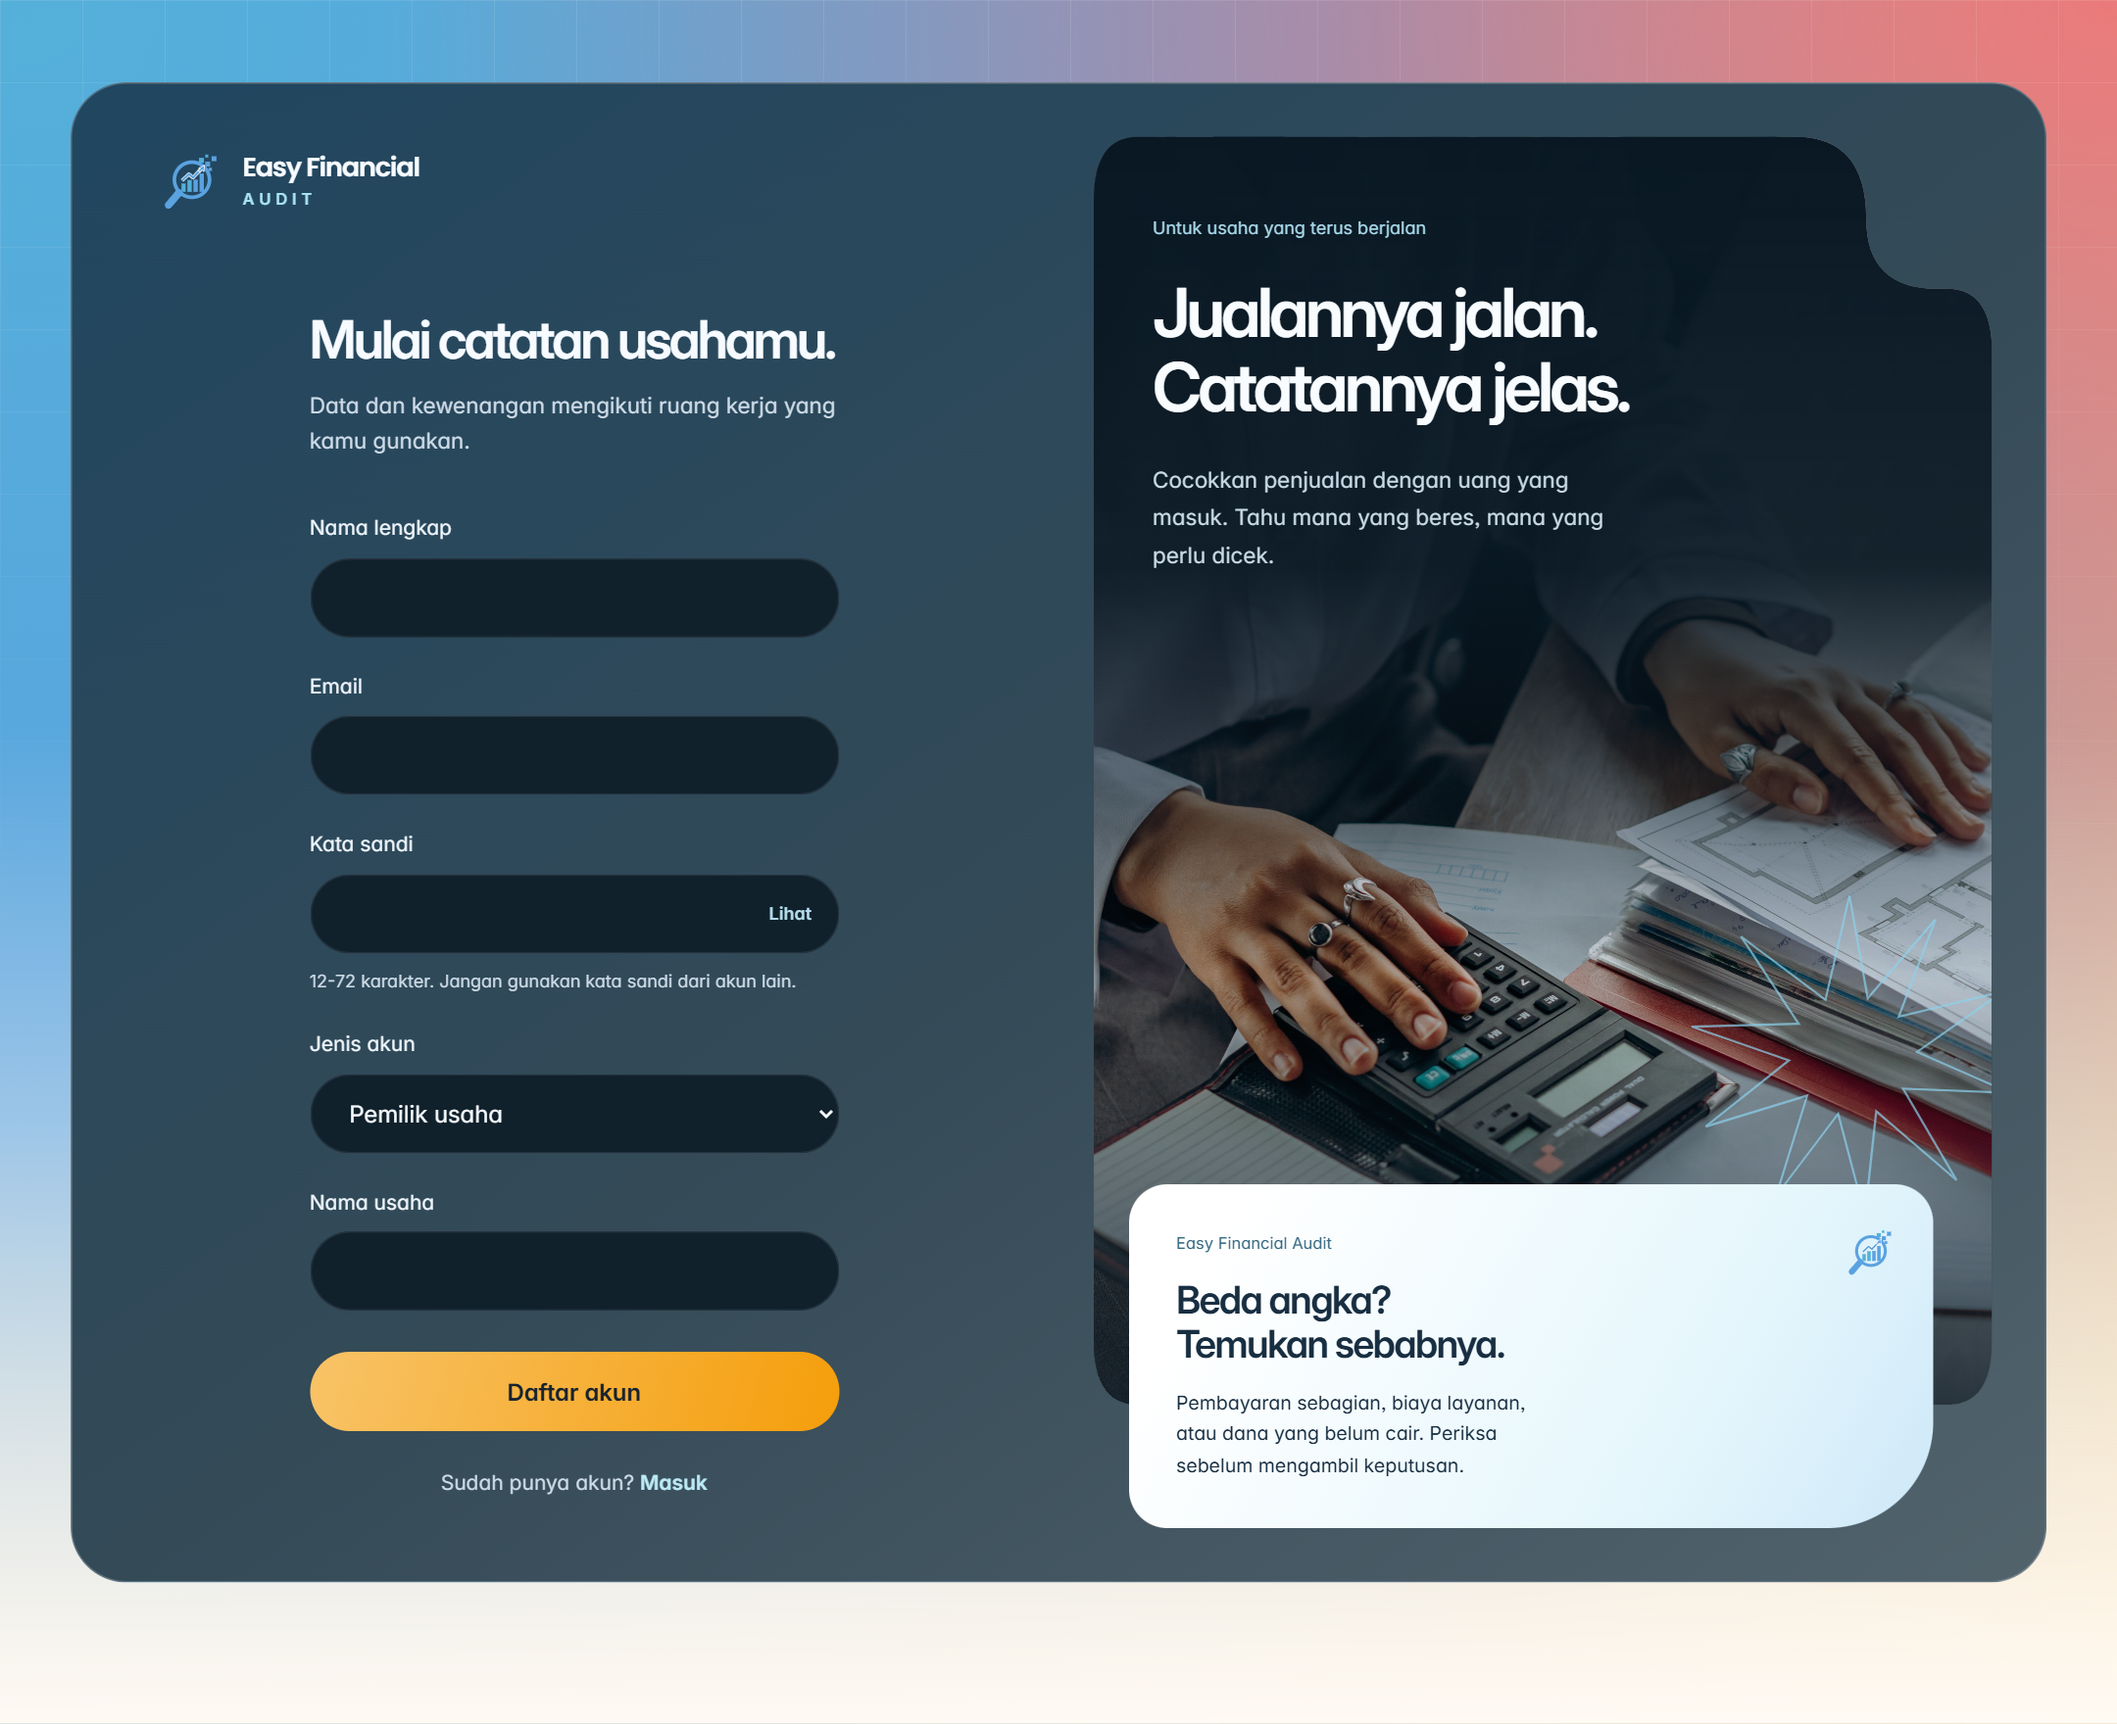
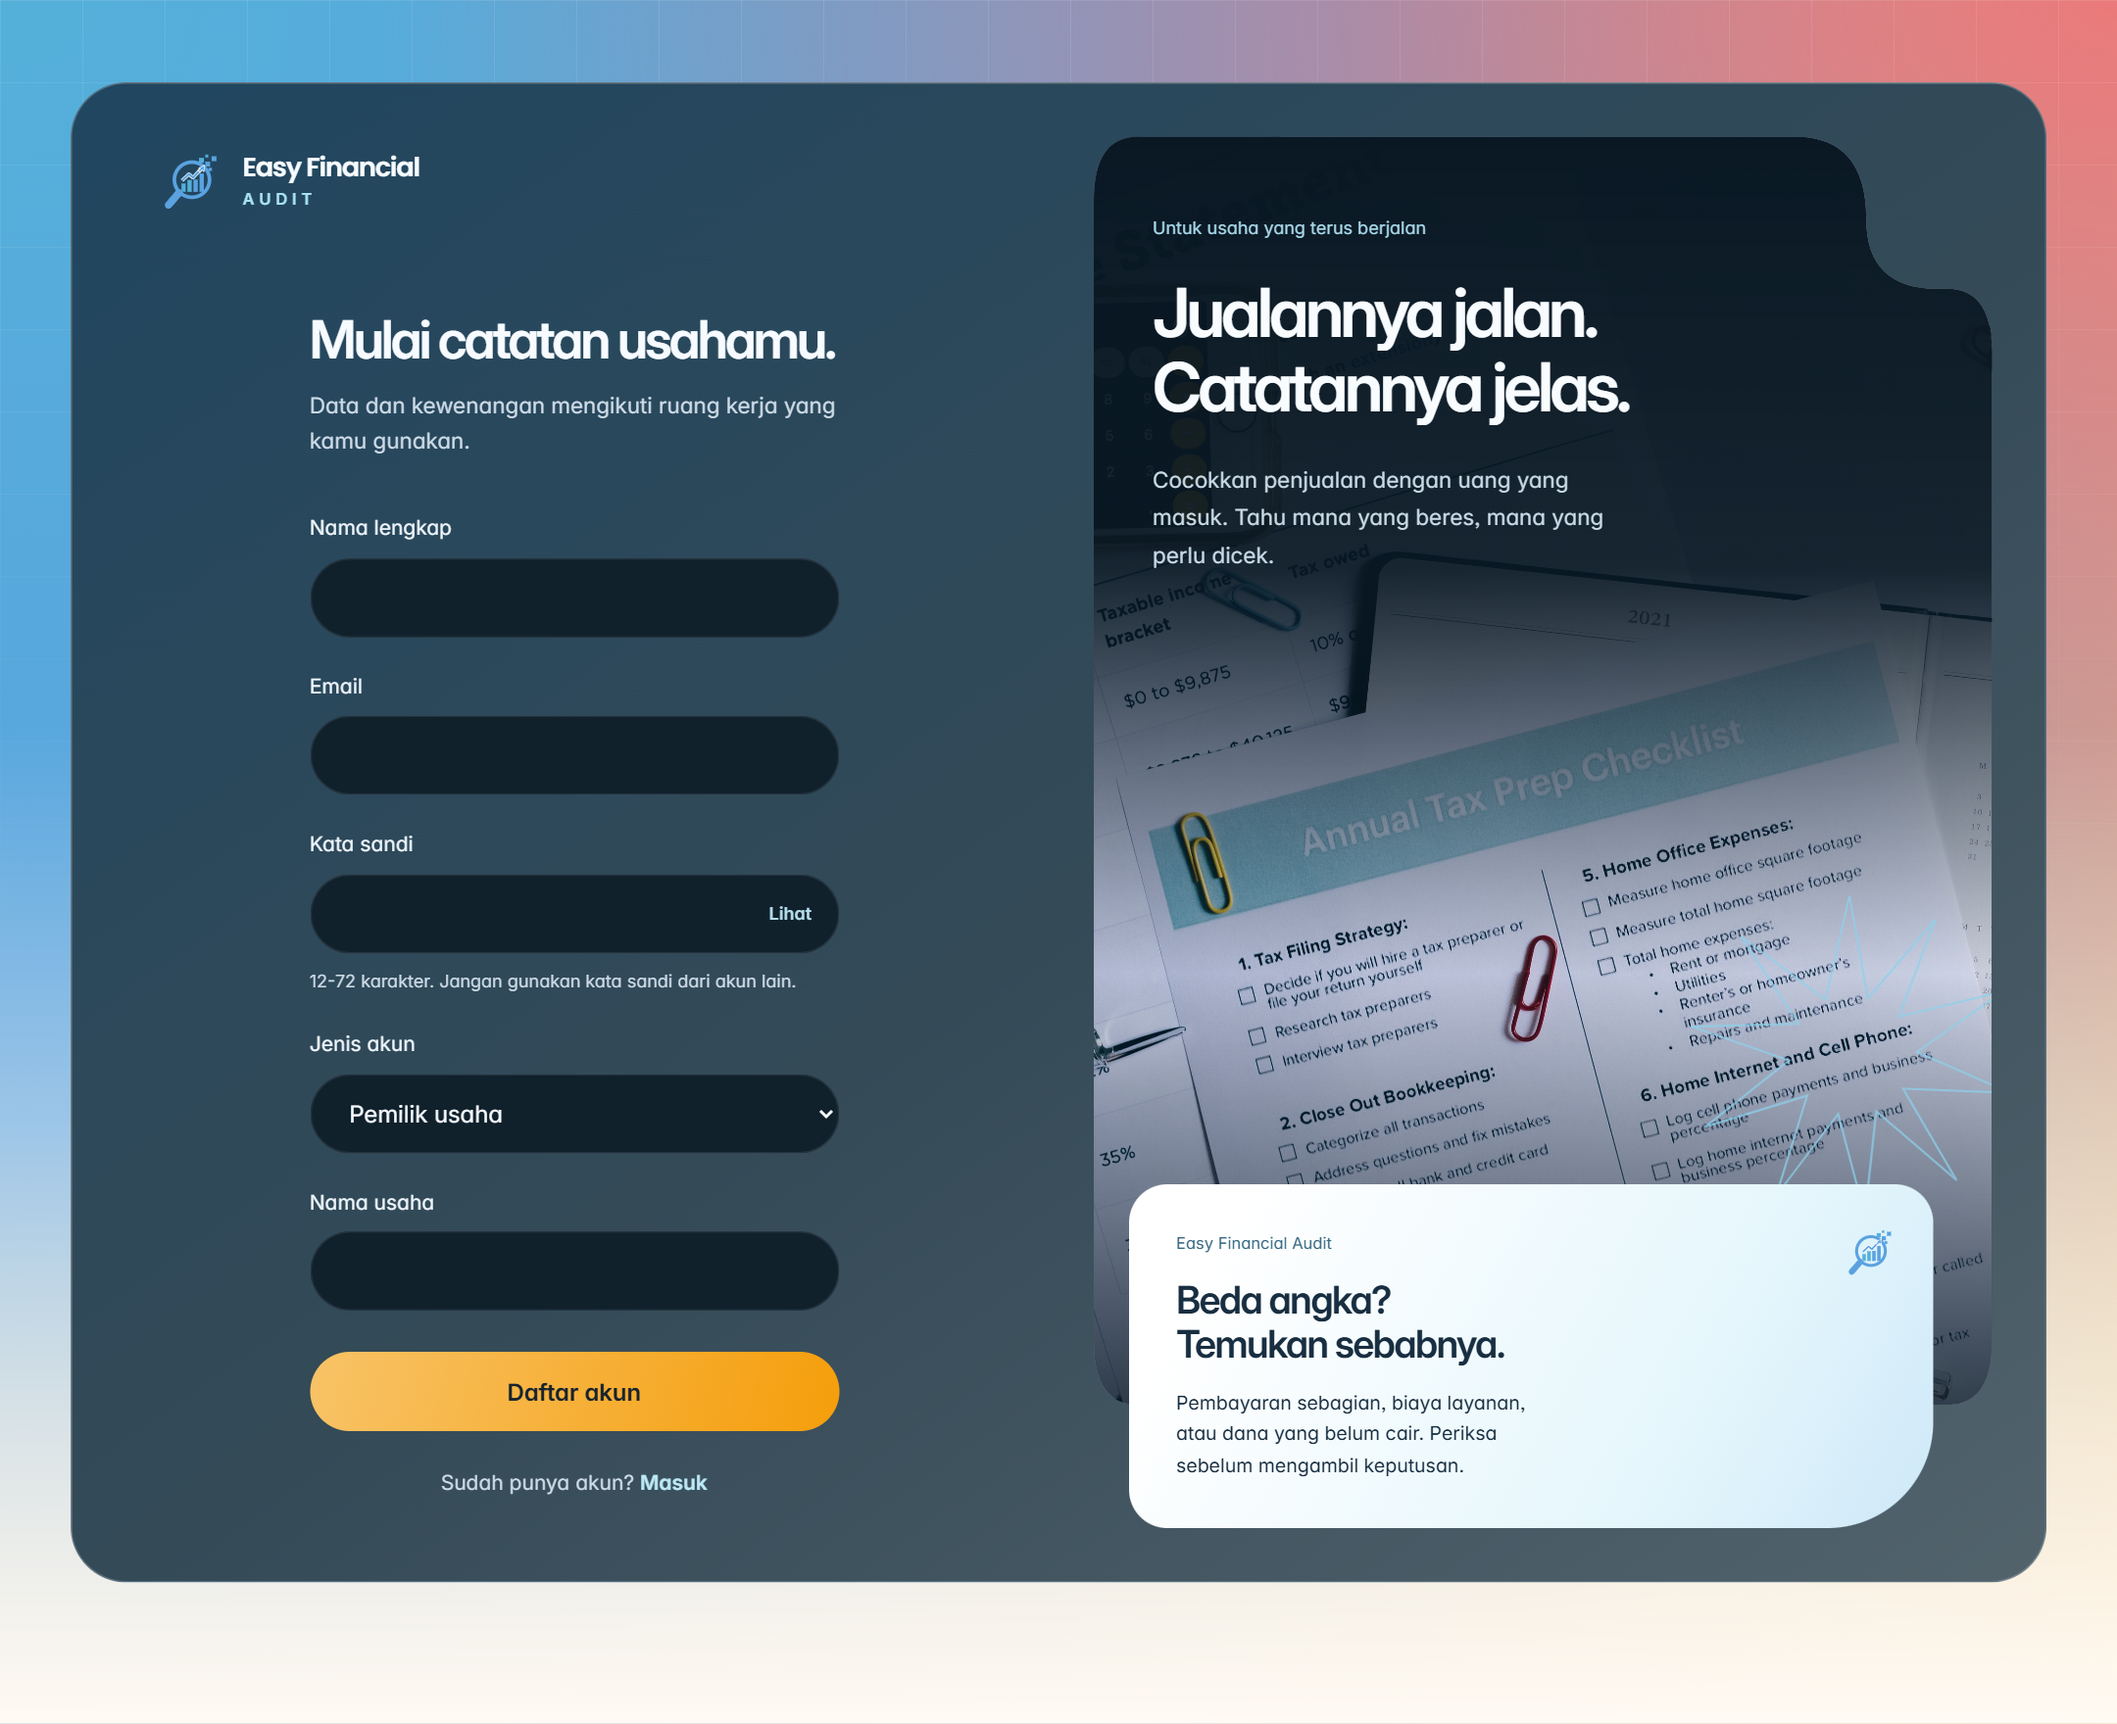
Replace soft-focus photos with 4K flat lays and remove image captions

Changed region(s): [[0.4963, 0.3438, 0.9616, 0.8125], [0.8995, 0.75, 0.9616, 0.7812]]

diff --git a/frontend/assets/design.js b/frontend/assets/design.js
@@ -59,7 +59,7 @@ function cashDashboard(c) {
       "Lihat uang yang sudah diterima dan tagihan yang masih perlu dicocokkan.",
       button("Impor CSV", "import", "", "primary"),
     ) +
-    `<section class="cash-account"><div class="cash-balance"><span class="account-caption">Tagihan belum cocok</span><strong class="account-amount">${e(money(sumMoney(open, (x) => balance(x))))}</strong><p>${open.length} dari ${sales.length} penjualan masih memiliki sisa.</p><a href="#reconcile" class="button balance-link">Periksa pasangan <span aria-hidden="true">↗</span></a><div class="cash-account-foot"><span>${done} penjualan sudah cocok</span><span>Rupiah / IDR</span></div></div><figure class="cash-business-photo"><img src="/assets/umkm-real.jpg" width="1200" height="800" alt="Foto asli etalase usaha roti"><figcaption><strong>Untuk usaha yang terus berjalan.</strong><span>Foto referensi · Farhad Ibrahimzade / Unsplash</span></figcaption></figure></section>
+    `<section class="cash-account"><div class="cash-balance"><span class="account-caption">Tagihan belum cocok</span><strong class="account-amount">${e(money(sumMoney(open, (x) => balance(x))))}</strong><p>${open.length} dari ${sales.length} penjualan masih memiliki sisa.</p><a href="#reconcile" class="button balance-link">Periksa pasangan <span aria-hidden="true">↗</span></a><div class="cash-account-foot"><span>${done} penjualan sudah cocok</span><span>Rupiah / IDR</span></div></div><figure class="cash-business-photo"><img src="/assets/efa-ledger-4k.jpg" width="4000" height="2670" alt="Kalkulator dan dokumen keuangan di atas meja"><figcaption><strong>Untuk usaha yang terus berjalan.</strong></figcaption></figure></section>
     <div class="cash-totals"><div><span>Penjualan tercatat</span><strong>${e(money(sumMoney(sales, (x) => x.amount)))}</strong><small>${sales.length} transaksi</small></div><div><span>Penerimaan tercatat</span><strong>${e(money(sumMoney(receipts, (x) => x.amount)))}</strong><small>${receipts.length} transaksi</small></div><div><span>Sudah cocok</span><strong>${done}<small> / ${sales.length}</small></strong><small>Penjualan tanpa sisa tagihan</small></div></div>
     <section class="cash-workspace"><div><div class="section-title"><h2>Perlu dicocokkan</h2><a href="#entries">Semua transaksi ↗</a></div><div class="cash-transactions">${rows}</div></div><aside class="cash-receipt"><div class="receipt-header"><span>${e(state.data.workspace.name)}</span><strong>Penerimaan per kanal</strong></div>${
       channels

diff --git a/frontend/index.html b/frontend/index.html
@@ -9,9 +9,9 @@
       content="Easy Financial Audit: cocokkan penjualan dan uang masuk, telusuri selisih, dan simpan keputusan rekonsiliasi."
     />
     <title>Easy Financial Audit</title>
-    <link rel="icon" type="image/svg+xml" href="/assets/favicon.svg?v=efa4" />
-    <link rel="alternate icon" type="image/png" sizes="32x32" href="/assets/favicon-32.png?v=efa4" />
-    <link rel="apple-touch-icon" sizes="180x180" href="/assets/apple-touch-icon.png?v=efa4" />
+    <link rel="icon" type="image/svg+xml" href="/assets/favicon.svg?v=efa5" />
+    <link rel="alternate icon" type="image/png" sizes="32x32" href="/assets/favicon-32.png?v=efa5" />
+    <link rel="apple-touch-icon" sizes="180x180" href="/assets/apple-touch-icon.png?v=efa5" />
     <link
       rel="preload"
       href="/assets/InterVariable.woff2"
@@ -19,12 +19,12 @@
       type="font/woff2"
       crossorigin
     />
-    <link rel="stylesheet" href="/assets/style.css?v=efa4" />
-    <link rel="stylesheet" href="/assets/brand.css?v=efa4" />
-    <link rel="stylesheet" href="/assets/motion.css?v=efa4" />
-    <link rel="stylesheet" href="/assets/efa.css?v=efa4" />
-    <link rel="stylesheet" href="/assets/auth.css?v=efa4" />
-    <script type="module" src="/assets/app.js?v=efa4"></script>
+    <link rel="stylesheet" href="/assets/style.css?v=efa5" />
+    <link rel="stylesheet" href="/assets/brand.css?v=efa5" />
+    <link rel="stylesheet" href="/assets/motion.css?v=efa5" />
+    <link rel="stylesheet" href="/assets/efa.css?v=efa5" />
+    <link rel="stylesheet" href="/assets/auth.css?v=efa5" />
+    <script type="module" src="/assets/app.js?v=efa5"></script>
   </head>
   <body>
     <a class="skip" href="#main">Lewati navigasi</a>

diff --git a/frontend/assets/auth-scene.js b/frontend/assets/auth-scene.js
@@ -3,7 +3,7 @@ export function authScene(register = false) {
   return `<section class="auth-story" aria-label="Tentang Easy Financial Audit">
     <svg class="auth-shapes" width="0" height="0" aria-hidden="true"><defs><clipPath id="auth-panel-cut" clipPathUnits="objectBoundingBox"><path d="M.05 0H.78Q.86 0 .86 .065Q.86 .12 .94 .12H.95Q1 .12 1 .17V.95Q1 1 .95 1H.05Q0 1 0 .95V.05Q0 0 .05 0Z"/></clipPath></defs></svg>
     <div class="auth-editorial">
-      <img class="auth-photo" src="/assets/${register ? "efa-finance-notes.jpg" : "efa-finance-desk.jpg"}" srcset="/assets/${register ? "efa-finance-notes.jpg" : "efa-finance-desk.jpg"} 2400w, /assets/${register ? "efa-finance-notes-hd.jpg" : "efa-finance-desk-hd.jpg"} 4000w" sizes="(min-width: 1530px) 640px, (min-width: 801px) 46vw, 90vw" width="4000" height="6000" alt="" fetchpriority="high">
+      <img class="auth-photo" src="/assets/${register ? "efa-planning-4k.jpg" : "efa-ledger-4k.jpg"}" width="4000" height="2670" alt="" fetchpriority="high">
       <div class="auth-editorial-copy">
         <span class="auth-kicker">Untuk usaha yang terus berjalan</span>
         <h1>Jualannya jalan.<br>Catatannya jelas.</h1>

diff --git a/frontend/assets/app.js b/frontend/assets/app.js
@@ -1,7 +1,7 @@
-import { authScene } from "./auth-scene.js?v=efa4";
-import { dashboard, maxyBrand, shell } from "./design.js?v=efa4";
+import { authScene } from "./auth-scene.js?v=efa5";
+import { dashboard, maxyBrand, shell } from "./design.js?v=efa5";
 
-import { presentView, presentAuth } from "./motion.js?v=efa4";
+import { presentView, presentAuth } from "./motion.js?v=efa5";
 
 const root = document.querySelector("#app");
 

diff --git a/frontend/assets/auth.css b/frontend/assets/auth.css
@@ -130,7 +130,7 @@ body[data-kind="umkm"] .auth-umkm .auth-story .auth-photo {
   min-height: 0;
   max-height: none;
   object-fit: cover;
-  object-position: 50% 70%;
+  object-position: 36% center;
   border-radius: 0;
   outline: 0;
 }

diff --git a/frontend/ASSETS.md b/frontend/ASSETS.md
@@ -5,7 +5,6 @@ palet sekarang mengikuti Easy Financial Audit; lihat ../docs/BRAND.md.
 
 | File | Penggunaan |
 | --- | --- |
-| umkm-real.jpg | Foto usaha Farhad Ibrahimzade / Unsplash; atribusi tampil pada UI |
 | efa-mark.svg, efa-logo.svg, efa-logo-hd.png | Identitas Easy Financial Audit dari referensi pemilik proyek |
 | favicon.svg, favicon-32.png, favicon.ico, favicon.png | Ikon browser EFA |
 | apple-touch-icon.png, icon-192.png, icon-512.png | Ikon resolusi tinggi perangkat |
@@ -18,14 +17,17 @@ palet sekarang mengikuti Easy Financial Audit; lihat ../docs/BRAND.md.
 | motion.js, motion.css | Animasi progresif dan reduced motion |
 | efa.css | Palet EFA terbaru dan penyesuaian kontras |
 | auth.css, auth-scene.js | Form kiri, panel foto bertakik kanan dan kartu bertumpuk, khusus login/daftar |
-| efa-finance-desk.jpg | Foto Mikhail Nilov / Pexels, ID 8296991; versi lokal 2400 x 3600 untuk login |
-| efa-finance-notes.jpg | Foto Mikhail Nilov / Pexels, ID 8297220; versi lokal 2400 x 3600 untuk daftar |
-| efa-finance-desk-hd.jpg, efa-finance-notes-hd.jpg | Sumber 4000 x 6000; browser memilih melalui srcset sesuai kebutuhan layar |
+| efa-ledger-4k.jpg | Foto dari atas: kalkulator, kalender dan dokumen; 4000 x 2670, untuk login/dashboard |
+| efa-planning-4k.jpg | Foto dari atas: pencatatan keuangan dan kalkulator; 4000 x 2670, untuk daftar |
 
 Branding menunjukkan konteks PBL, bukan klaim layanan keuangan resmi MAXY. Aset prototipe Grader/Facility tidak disertakan.
 
-Foto baru berasal dari [halaman laptop dan kalkulator](https://www.pexels.com/photo/person-using-a-calculator-and-a-laptop-8296991/)
-dan [halaman pencatatan keuangan](https://www.pexels.com/photo/a-person-working-on-the-documents-using-a-calculator-8297220/),
+Foto baru oleh Leeloo The First, berasal dari [dokumen dan kalkulator](https://www.pexels.com/photo/close-up-shot-of-documents-6928994/)
+dan [dokumen serta ponsel](https://www.pexels.com/photo/a-documents-and-mobile-phone-on-the-table-8962448/),
 diunduh sesuai [lisensi Pexels](https://www.pexels.com/license/). Kredit dan tautan
 sumber disimpan di berkas ini. Foto adalah referensi visual, bukan pengguna EFA
 atau bukti penerapan pada perusahaan tertentu.
+
+Foto lama Mikhail Nilov (8296991/8297220), serta foto roti Farhad
+Ibrahimzade/Unsplash, telah digantikan dan disimpan dalam backup lokal.
+PDF panduan lama masih memuat snapshot foto tersebut sesuai waktu pembuatannya.

diff --git a/docs/BRAND.md b/docs/BRAND.md
@@ -49,7 +49,7 @@ frontend/assets/efa.css menjadi lapisan tema EFA setelah style.css,
 brand.css, dan motion.css. Komposisi layout dan interaksi tidak diganti.
 design.js menyusun logo header, index.html memuat favicon serta metadata.
 
-Cache URL aset memakai versi efa4. Saat mengganti aset berikutnya,
+Cache URL aset memakai versi efa5. Saat mengganti aset berikutnya,
 perbarui versi agar cache browser memvalidasi file baru.
 
 ## Live dan source tim
@@ -76,7 +76,7 @@ turunan gelap #204660, #344A57 dan #52636C. Input berbentuk pil dengan latar
 Warna dashboard tidak ikut berubah.
 
 `auth-scene.js` menyusun panel visual yang dipakai bersama oleh login dan
-daftar. Keduanya memakai foto HD Mikhail Nilov yang berbeda (lihat
+daftar. Keduanya memakai foto 4K Leeloo The First yang berbeda (lihat
 [sumber dan lisensi](../frontend/ASSETS.md)); bukan testimoni pengguna.
 Tidak ditambahkan tombol login sosial atau pemulihan sandi yang belum
 memiliki alur backend.
@@ -86,8 +86,10 @@ saat pengguna memakai keyboard dan mengikuti reduced motion. Tidak ada
 animasi dekoratif berulang atau tambahan library animasi.
 
 Caption foto dan catatan PBL tidak ditampilkan pada halaman autentikasi.
-Sumber foto tetap terdokumentasi di ASSETS.md. Foto memakai srcset 2400/4000
-piksel agar layar tajam tersedia tanpa selalu mengirim file terbesar ke HP.
+Sumber foto tetap terdokumentasi di ASSETS.md. Foto pengganti diambil dari
+atas, 4000 x 2670 piksel, sehingga dokumen dan kalkulator lebih merata tajam.
+Dashboard memakai foto yang sama dengan login dan memanfaatkan cache browser.
+Tidak ada tulisan kredit atau foto referensi pada UI EFA.
 
 Navigasi, tombol, toast, modal, menu HP, dan pergantian halaman memakai
 feedback konsisten. Bagian yang mulai di bawah viewport diberi reveal

diff --git a/docs/ui-guide/auth-refresh/README.md b/docs/ui-guide/auth-refresh/README.md
@@ -7,6 +7,7 @@ Form daftar tidak dikirim dan data keuangan tidak diubah saat pengujian.
 | --- | --- | --- |
 | Masuk | [PNG](login-1440.png) | [PNG](login-375.png) |
 | Daftar | [PNG](register-1440.png) | [PNG](register-375.png) |
+| Ringkasan | [PNG](overview-1440.png) | [PNG](overview-375.png) |
 
 Pengujian mencakup lebar 320, 375, 768 dan 1440 px. Login akun demo
 di live berhasil membuka dashboard. Tombol lihat/sembunyikan sandi,
@@ -23,13 +24,14 @@ animasi berjalan. Pengujian ini tidak mengirim perubahan transaksi.
 
 Komposisi mengikuti referensi pengguna: form kiri, input pil, panel foto
 kanan dengan takikan melengkung, dan kartu terang yang menumpuk. Foto
-login dan daftar berbeda, dengan pilihan 2400 x 3600 atau 4000 x 6000
-melalui srcset, dari Mikhail Nilov/Pexels. Kredit disimpan di ASSETS.md;
+login dan daftar berbeda, keduanya foto tampak atas 4000 x 2670 piksel
+dari Leeloo The First/Pexels. Dashboard memakai foto login yang sama.
+Kredit disimpan di ASSETS.md;
 caption foto dan catatan PBL telah dihapus dari halaman login/daftar.
 Di HP form tampil lebih dahulu, dilanjutkan panel visual; seluruh isi
 tetap bisa digulir. Tidak ada testimoni atau angka keberhasilan rekaan.
 
-Deployment: `dpl_Ca6ZyoiDM7Zc9WYNBHEToTauUjpi`.
+Deployment: `dpl_GxzYHVENzfadiD1K9y3YYxUS2o8D`.
 Source Go prototype yang dideploy tetap berbeda dari backend integrasi
 tim di repository ini; perubahan ini menyamakan UI kedua source.
 
